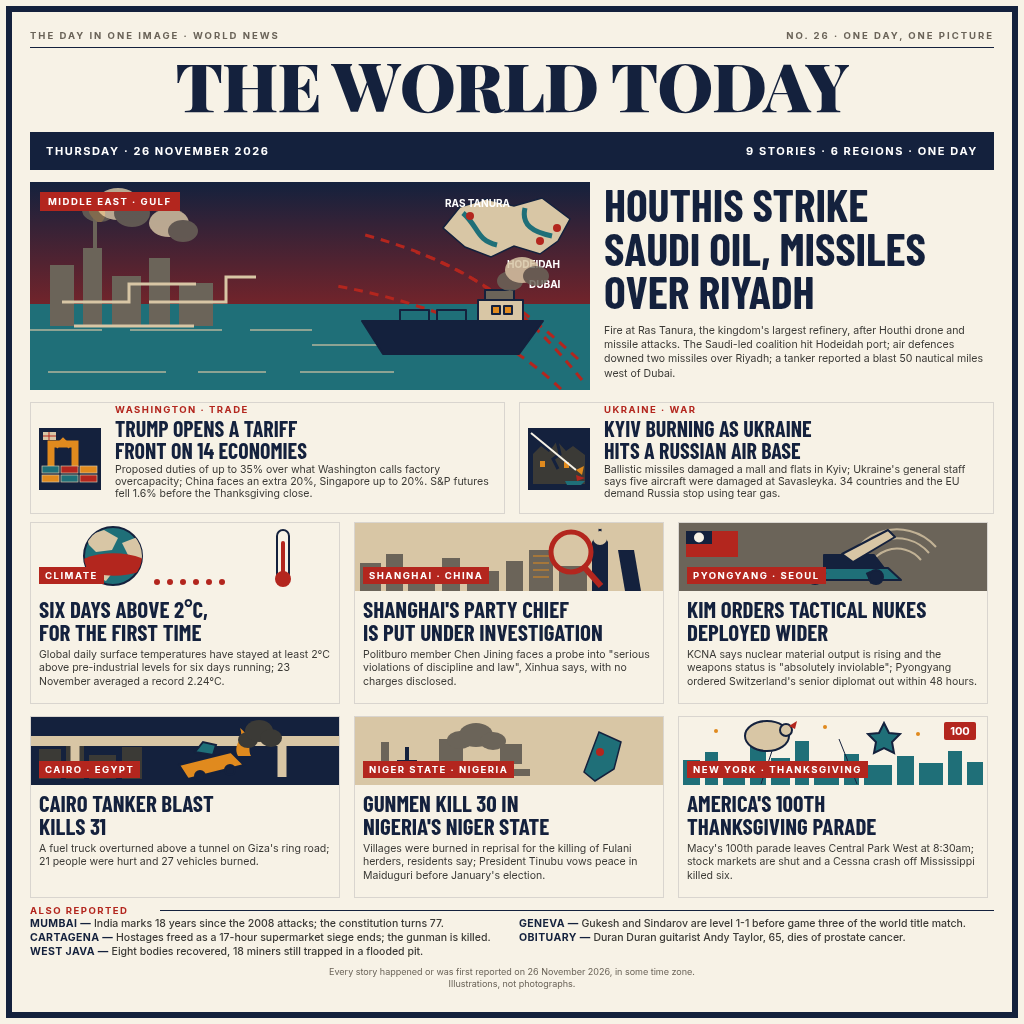
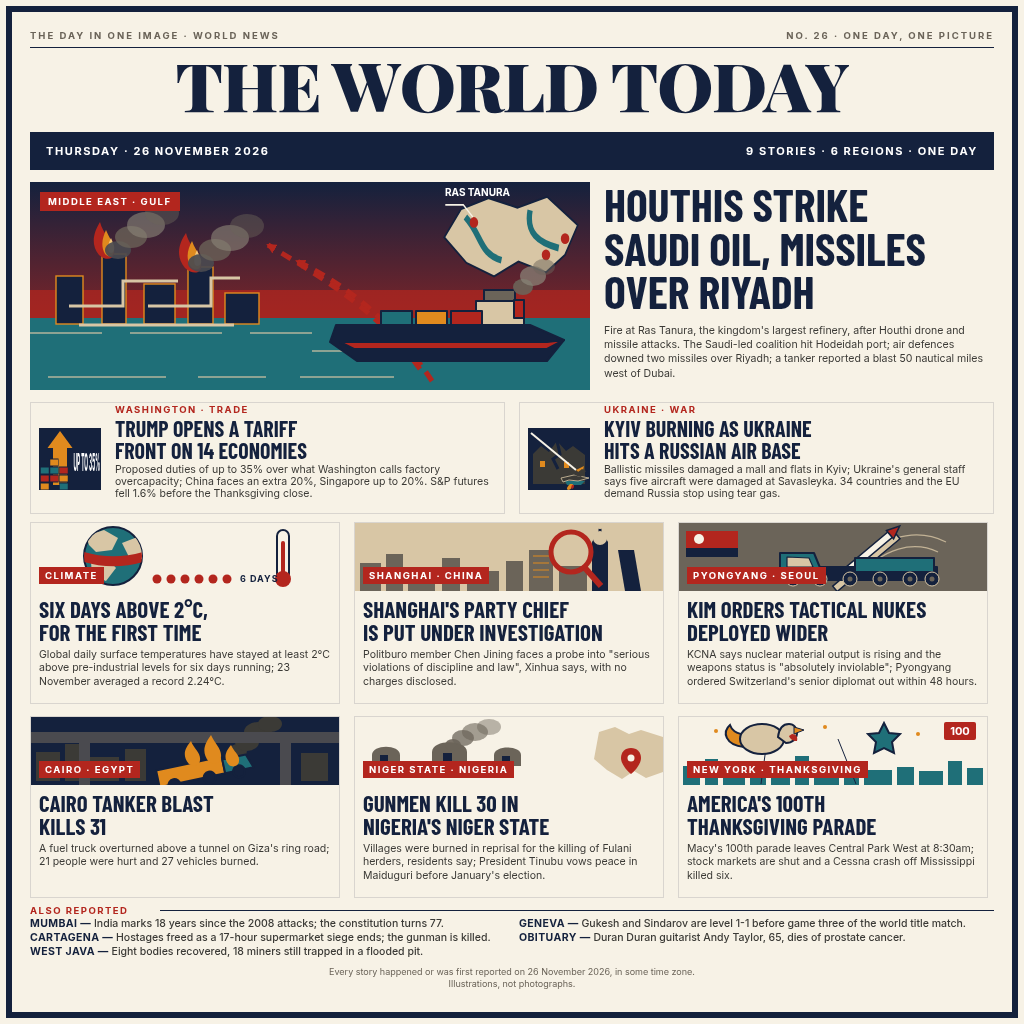
Rebuild editorial artwork for all nine news panels
- Make the Gulf refinery fire, connected smoke, tanker, compact map and missile arcs readable.
- Clarify tariffs, Korea, Egypt, Nigeria, climate, Thanksgiving and Ukraine illustrations.
- Preserve the approved layout, typography and all non-SVG copy.

diff --git a/src/entry.html b/src/entry.html
@@ -63,32 +63,47 @@ svg text{font-family:Inter,Arial,sans-serif}
       <svg viewBox="0 0 560 208" role="img" aria-label="Illustration of a refinery and tanker in the Gulf under missile attack">
         <defs>
           <linearGradient id="gulfSky" x1="0" y1="0" x2="0" y2="1"><stop offset="0" stop-color="#14213D"/><stop offset="1" stop-color="#B3261E"/></linearGradient>
+          <marker id="missileArrow" viewBox="0 0 10 10" refX="8" refY="5" markerWidth="10" markerHeight="10" orient="auto" markerUnits="userSpaceOnUse"><path d="M0 0 10 5 0 10Z" fill="#B3261E"/></marker>
         </defs>
         <rect width="560" height="208" fill="url(#gulfSky)"/>
-        <rect y="122" width="560" height="86" fill="#1F6F78"/>
-        <g stroke="#D8C6A5" stroke-width="1.5" opacity=".8"><path d="M0 148h72m28 0h92m28 0h62"/><path d="M282 163h84m32 0h74"/><path d="M18 190h118m32 0h68m34 0h94"/></g>
-        <g fill="#6B6459">
-          <rect x="20" y="83" width="24" height="61"/><rect x="53" y="66" width="19" height="78"/><rect x="82" y="94" width="29" height="50"/><rect x="119" y="76" width="21" height="68"/><rect x="149" y="101" width="34" height="43"/>
+        <rect y="108" width="560" height="32" fill="#B3261E" opacity=".72"/>
+        <rect y="136" width="560" height="72" fill="#1F6F78"/>
+        <g stroke="#D8C6A5" stroke-width="1.5" opacity=".8"><path d="M0 151h72m28 0h92m28 0h62"/><path d="M282 169h84m32 0h74"/><path d="M18 195h118m32 0h68m34 0h94"/></g>
+        <g fill="none" stroke="#B3261E" stroke-width="5" stroke-dasharray="11 8" marker-end="url(#missileArrow)"><path d="M402 199C365 143 321 105 267 79"/><path d="M390 187C350 132 302 101 238 63"/></g>
+        <g transform="translate(410 4)">
+          <g transform="scale(1.06 1.35)">
+            <path d="M4 38 20 17 46 9 73 16 101 8 130 29 118 51 100 64 74 56 51 67 25 57Z" fill="#D8C6A5" stroke="#14213D" stroke-width="1.5"/>
+            <path d="M24 23c16 14 13 27 34 32m27-37c-4 17 8 24 27 28" fill="none" stroke="#1F6F78" stroke-width="5"/>
+            <g fill="#B3261E"><circle cx="32" cy="27" r="4"/><circle cx="100" cy="51" r="4"/><circle cx="118" cy="39" r="4"/></g>
+            <path d="m31 23-9-9H5" fill="none" stroke="#F7F2E6" stroke-width="1.2"/>
+          </g>
+          <text x="5" y="10" fill="white" font-size="10" font-weight="700">RAS TANURA</text>
         </g>
-        <g fill="none" stroke="#D8C6A5" stroke-width="3"><path d="M32 120h67v-18h67m-47 18h77v-25h30"/><path d="M44 144h120"/></g>
-        <path d="M63 66V36h4v30" fill="#6B6459"/>
-        <path d="M65 38c-11-9-6-19 1-26 2 10 11 13 9 22-1 6-6 8-10 4Z" fill="#E08A1E"/>
-        <g opacity=".82"><ellipse cx="69" cy="28" rx="17" ry="12" fill="#6B6459"/><ellipse cx="88" cy="22" rx="22" ry="16" fill="#D8C6A5"/><ellipse cx="102" cy="31" rx="18" ry="14" fill="#6B6459"/><ellipse cx="139" cy="41" rx="20" ry="14" fill="#D8C6A5"/><ellipse cx="153" cy="49" rx="15" ry="11" fill="#6B6459"/></g>
-        <g fill="none" stroke="#B3261E" stroke-width="3" stroke-dasharray="9 7"><path d="M552 198C499 132 447 91 386 70"/><path d="M548 177C477 111 417 75 335 53"/><path d="M531 207C470 149 399 121 302 103"/></g>
-        <g transform="translate(408 8)">
-          <path d="M5 38 22 17 48 9 76 16 104 8 132 29 120 51 102 64 76 56 53 67 27 57Z" fill="#D8C6A5" stroke="#14213D" stroke-width="1.5"/>
-          <path d="M25 23c16 14 13 27 34 32m28-37c-4 17 8 24 27 28" fill="none" stroke="#1F6F78" stroke-width="5"/>
-          <g fill="#B3261E"><circle cx="32" cy="26" r="4"/><circle cx="102" cy="51" r="4"/><circle cx="119" cy="38" r="4"/></g>
-          <g fill="white" font-size="10" font-weight="700"><text x="7" y="17">RAS TANURA</text><text x="69" y="78">HODEIDAH</text><text x="91" y="98">DUBAI</text></g>
+        <g fill="#14213D" stroke="#E08A1E" stroke-width="1.4">
+          <rect x="26" y="94" width="27" height="48"/><rect x="72" y="72" width="24" height="70"/><rect x="114" y="102" width="31" height="40"/><rect x="158" y="85" width="25" height="57"/><rect x="195" y="111" width="34" height="31"/>
+        </g>
+        <g fill="none" stroke="#D8C6A5" stroke-width="3"><path d="M39 124h54V99h55m-30 25h63V96h29"/><path d="M49 143h155"/></g>
+        <g>
+          <path d="M69 73c-9-11-5-23 1-33 3 12 12 18 14 28 2 9-7 12-15 5Z" fill="#B3261E"/>
+          <path d="M75 72c-5-9-2-17 1-24 3 8 8 13 8 20 0 7-5 8-9 4Z" fill="#E08A1E"/>
+          <path d="M79 70c-2-5 0-10 2-14 2 5 4 8 3 12-1 3-3 4-5 2Z" fill="#F4C77B"/>
+          <path d="M155 86c-10-12-6-25 1-35 3 13 13 19 15 30 2 10-7 13-16 5Z" fill="#B3261E"/>
+          <path d="M161 85c-6-9-3-18 1-26 3 9 9 14 9 22 0 7-5 8-10 4Z" fill="#E08A1E"/>
+          <path d="M165 83c-2-5 0-11 2-15 2 6 5 9 4 13-1 3-4 4-6 2Z" fill="#F4C77B"/>
+        </g>
+        <g>
+          <ellipse cx="88" cy="68" rx="13" ry="9" fill="#4A4A4F" opacity=".92"/><ellipse cx="101" cy="55" rx="16" ry="11" fill="#6B6459" opacity=".78"/><ellipse cx="116" cy="43" rx="19" ry="13" fill="#8A8578" opacity=".62"/><ellipse cx="132" cy="31" rx="17" ry="12" fill="#6B6459" opacity=".46"/>
+          <ellipse cx="171" cy="81" rx="13" ry="9" fill="#4A4A4F" opacity=".92"/><ellipse cx="185" cy="68" rx="16" ry="11" fill="#6B6459" opacity=".78"/><ellipse cx="200" cy="56" rx="19" ry="13" fill="#8A8578" opacity=".62"/><ellipse cx="217" cy="44" rx="17" ry="12" fill="#6B6459" opacity=".46"/>
         </g>
         <g stroke="#14213D" stroke-width="2" stroke-linejoin="round">
-          <path d="M332 139h181l-24 33H353Z" fill="#14213D"/>
-          <path d="M448 118h45v21h-45Z" fill="#D8C6A5"/>
-          <path d="M455 108h29v10h-29Z" fill="#6B6459"/>
-          <path d="M370 128h29v11h-29Zm37 0h29v11h-29Z" fill="#1F6F78"/>
-          <path d="M462 124h8v8h-8Zm12 0h8v8h-8Z" fill="#E08A1E"/>
+          <path d="M306 143h194l34 15-17 21H327l-27-19Z" fill="#14213D"/>
+          <path d="M310 160h207l17-2-17 9H324Z" fill="#B3261E"/>
+          <path d="M446 119h48v24h-48Z" fill="#D8C6A5"/>
+          <path d="M454 108h31v11h-31Z" fill="#6B6459"/>
+          <rect x="351" y="129" width="31" height="14" fill="#1F6F78"/><rect x="386" y="129" width="31" height="14" fill="#E08A1E"/><rect x="421" y="129" width="31" height="14" fill="#B3261E"/>
+          <path d="M484 118h10v18h-10Z" fill="#B3261E"/>
         </g>
-        <g opacity=".85"><ellipse cx="480" cy="99" rx="13" ry="10" fill="#6B6459"/><ellipse cx="492" cy="88" rx="17" ry="13" fill="#D8C6A5"/><ellipse cx="506" cy="94" rx="13" ry="10" fill="#6B6459"/></g>
+        <g><ellipse cx="493" cy="105" rx="10" ry="8" fill="#6B6459" opacity=".9"/><ellipse cx="503" cy="94" rx="13" ry="10" fill="#8A8578" opacity=".72"/><ellipse cx="514" cy="85" rx="11" ry="8" fill="#6B6459" opacity=".5"/></g>
       </svg>
       <div class="chip">MIDDLE EAST · GULF</div>
     </div>
@@ -101,12 +116,15 @@ svg text{font-family:Inter,Arial,sans-serif}
   <section class="mini-row" aria-label="Trade and Ukraine">
     <article class="mini-card">
       <div class="mini-icon">
-        <svg viewBox="0 0 62 62" role="img" aria-label="Shipping containers beneath an upward tariff arrow">
-          <rect width="62" height="62" fill="#14213D"/>
-          <path d="M12 39V16h24v23" fill="none" stroke="#E08A1E" stroke-width="7"/>
-          <path d="m17 19 7-7 7 7" fill="none" stroke="#E08A1E" stroke-width="4"/>
-          <g stroke="#D8C6A5" stroke-width=".7"><rect x="3" y="38" width="17" height="7" fill="#1F6F78"/><rect x="22" y="38" width="17" height="7" fill="#B3261E"/><rect x="41" y="38" width="17" height="7" fill="#E08A1E"/><rect x="3" y="47" width="17" height="7" fill="#E08A1E"/><rect x="22" y="47" width="17" height="7" fill="#1F6F78"/><rect x="41" y="47" width="17" height="7" fill="#B3261E"/></g>
-          <rect x="4" y="4" width="13" height="8" fill="#D8C6A5"/><path d="M4 8h13M10 4v8" stroke="#B3261E" stroke-width="1"/>
+        <svg viewBox="0 0 124 62" preserveAspectRatio="none" role="img" aria-label="Three container stacks behind a rising tariff arrow and UP TO 35%">
+          <rect width="124" height="62" fill="#14213D"/>
+          <path d="M28 57V20H17L42 3 67 20H56V57Z" fill="#E08A1E"/>
+          <g stroke="#14213D" stroke-width="1">
+            <rect x="3" y="39" width="17" height="7" fill="#1F6F78"/><rect x="3" y="47" width="17" height="7" fill="#B3261E"/><rect x="3" y="55" width="17" height="7" fill="#E08A1E"/>
+            <rect x="22" y="31" width="17" height="7" fill="#E08A1E"/><rect x="22" y="39" width="17" height="7" fill="#1F6F78"/><rect x="22" y="47" width="17" height="7" fill="#B3261E"/>
+            <rect x="41" y="39" width="17" height="7" fill="#B3261E"/><rect x="41" y="47" width="17" height="7" fill="#E08A1E"/><rect x="41" y="55" width="17" height="7" fill="#1F6F78"/>
+          </g>
+          <text x="69" y="43" textLength="53" lengthAdjust="spacingAndGlyphs" fill="white" font-family="Barlow" font-size="26" font-weight="700">UP TO 35%</text>
         </svg>
       </div>
       <div class="mini-copy">
@@ -124,7 +142,7 @@ svg text{font-family:Inter,Arial,sans-serif}
           <rect x="12" y="33" width="5" height="6" fill="#E08A1E"/><rect x="36" y="34" width="5" height="6" fill="#E08A1E"/>
           <path d="M3 5 48 42" stroke="#F7F2E6" stroke-width="2"/>
           <path d="m48 42 8-4-2 9Z" fill="#E08A1E"/>
-          <path d="M37 53h20l-4 4H39Z" fill="#1F6F78"/><path d="m48 47 9 3-8 3Z" fill="#B3261E"/>
+          <path d="M37 53h20l-4 4H39Z" fill="#1F6F78"/><path d="m33 50 13-3 15 3-11 3-9-1-6 2Z" fill="#3B3A36" stroke="#D8C6A5" stroke-width=".8"/><path d="m46 47 8-6 4 2-5 6Z" fill="#3B3A36"/><path d="M42 56c-3 3-4 5-2 6 3 0 4-3 5-6Z" fill="#E08A1E"/><path d="M44 57c-1 2-1 3 0 4 2-1 2-2 2-4Z" fill="#B3261E"/>
         </svg>
       </div>
       <div class="mini-copy">
@@ -143,10 +161,11 @@ svg text{font-family:Inter,Arial,sans-serif}
           <defs><clipPath id="climateClip"><circle cx="82" cy="33" r="29"/></clipPath></defs>
           <circle cx="82" cy="33" r="29" fill="#1F6F78" stroke="#14213D" stroke-width="2"/>
           <g clip-path="url(#climateClip)" fill="#D8C6A5"><path d="M55 13 73 7 87 15 81 27 65 29 58 22Z"/><path d="m91 20 18-7 12 9-4 13-17 3Z"/><path d="M60 39 76 35 85 45 75 58 61 52Z"/></g>
-          <path d="M50 37c19-9 46-9 65 0v9c-19 9-46 9-65 0Z" fill="#B3261E" clip-path="url(#climateClip)"/>
+          <path d="M50 28c20 7 45 7 65 0v10c-20 7-45 7-65 0Z" fill="#B3261E" clip-path="url(#climateClip)"/>
           <rect x="246" y="7" width="12" height="50" rx="6" fill="#F7F2E6" stroke="#14213D" stroke-width="2"/>
           <rect x="250" y="18" width="4" height="34" rx="2" fill="#B3261E"/><circle cx="252" cy="56" r="8" fill="#B3261E"/>
-          <g fill="#B3261E"><circle cx="126" cy="59" r="3"/><circle cx="139" cy="59" r="3"/><circle cx="152" cy="59" r="3"/><circle cx="165" cy="59" r="3"/><circle cx="178" cy="59" r="3"/><circle cx="191" cy="59" r="3"/></g>
+          <g fill="#B3261E"><circle cx="126" cy="56" r="4.5"/><circle cx="140" cy="56" r="4.5"/><circle cx="154" cy="56" r="4.5"/><circle cx="168" cy="56" r="4.5"/><circle cx="182" cy="56" r="4.5"/><circle cx="196" cy="56" r="4.5"/></g>
+          <text x="209" y="59" fill="#14213D" font-family="Inter" font-size="9" font-weight="700" letter-spacing="1">6 DAYS</text>
         </svg>
         <div class="chip bottom">CLIMATE</div>
       </div>
@@ -171,11 +190,22 @@ svg text{font-family:Inter,Arial,sans-serif}
     </article>
     <article class="card">
       <div class="card-art">
-        <svg viewBox="0 0 308 68" role="img" aria-label="North Korean mobile missile launcher and concentric launch arcs">
+        <svg viewBox="0 0 308 68" role="img" aria-label="North Korean six-wheel mobile missile launcher with a missile raised forty degrees">
           <rect width="308" height="68" fill="#6B6459"/>
-          <g fill="none" stroke="#D8C6A5" stroke-width="2" opacity=".8"><path d="M166 57a52 52 0 0 1 91-33"/><path d="M176 57a42 42 0 0 1 74-27"/><path d="M187 57a31 31 0 0 1 55-20"/></g>
-          <rect x="7" y="8" width="52" height="26" fill="#B3261E"/><rect x="7" y="8" width="26" height="13" fill="#14213D"/><circle cx="20" cy="14.5" r="5" fill="#F7F2E6"/>
-          <g stroke="#14213D" stroke-width="2" stroke-linejoin="round"><path d="M116 45h93l13 12h-99Z" fill="#1F6F78"/><path d="M145 32h50l10 13h-60Z" fill="#14213D"/><path d="m163 31 46-24 7 7-42 25Z" fill="#D8C6A5"/><path d="m125 49-5 11m25-11-3 11m47-11 5 11" stroke="#14213D" stroke-width="5"/><circle cx="136" cy="54" r="7" fill="#14213D"/><circle cx="197" cy="54" r="7" fill="#14213D"/></g>
+          <g fill="none" stroke="#D8C6A5" stroke-width="1.3" opacity=".8"><path d="M163 57C195 12 237 4 267 19"/><path d="M177 57C204 23 236 18 259 29"/></g>
+          <rect x="7" y="8" width="52" height="26" fill="#B3261E"/><rect x="7" y="25" width="52" height="9" fill="#14213D"/><circle cx="20" cy="16" r="5" fill="#F7F2E6"/>
+          <g transform="rotate(-40 174 50)">
+            <path d="M150 47h82v7h-82Z" fill="#D8C6A5" stroke="#14213D" stroke-width="1.5"/>
+            <path d="M163 41h64v7h-64Z" fill="#F7F2E6" stroke="#14213D" stroke-width="1.5"/><path d="m227 39 13 5-13 6Z" fill="#B3261E" stroke="#14213D" stroke-width="1.5"/><path d="m165 41-8-6 2 13Z" fill="#B3261E"/>
+          </g>
+          <g stroke="#14213D" stroke-width="2" stroke-linejoin="round">
+            <path d="M132 44h126v13H132Z" fill="#14213D"/>
+            <path d="M176 35h79v14h-79Z" fill="#1F6F78"/>
+            <path d="M101 30h34l9 22h-43Z" fill="#1F6F78"/>
+            <path d="m108 34 22 1 4 9h-26Z" fill="#D8C6A5" stroke-width="1.2"/>
+          </g>
+          <g fill="#14213D" stroke="#D8C6A5" stroke-width="1"><circle cx="114" cy="56" r="7"/><circle cx="141" cy="56" r="7"/><circle cx="171" cy="56" r="7"/><circle cx="201" cy="56" r="7"/><circle cx="231" cy="56" r="7"/><circle cx="253" cy="56" r="7"/></g>
+          <g fill="#6B6459"><circle cx="114" cy="56" r="2.5"/><circle cx="141" cy="56" r="2.5"/><circle cx="171" cy="56" r="2.5"/><circle cx="201" cy="56" r="2.5"/><circle cx="231" cy="56" r="2.5"/><circle cx="253" cy="56" r="2.5"/></g>
         </svg>
         <div class="chip bottom">PYONGYANG · SEOUL</div>
       </div>
@@ -187,13 +217,16 @@ svg text{font-family:Inter,Arial,sans-serif}
   <section class="card-row row-two" aria-label="Egypt, Nigeria and Thanksgiving">
     <article class="card">
       <div class="card-art">
-        <svg viewBox="0 0 308 68" role="img" aria-label="Tipped fuel tanker burning beneath a concrete overpass">
+        <svg viewBox="0 0 308 68" role="img" aria-label="Tipped fuel tanker with three flames and smoke beneath a concrete overpass">
           <rect width="308" height="68" fill="#14213D"/>
-          <g fill="#3B3A36"><rect x="8" y="32" width="22" height="30"/><rect x="35" y="24" width="18" height="38"/><rect x="58" y="38" width="27" height="24"/><rect x="91" y="30" width="20" height="32"/></g>
-          <path d="M0 19h308v10H0Z" fill="#D8C6A5"/><path d="M44 29v31m207-31v31" stroke="#D8C6A5" stroke-width="9"/>
-          <g stroke="#14213D" stroke-width="2"><path d="m148 48 52-13 13 13-56 14Z" fill="#E08A1E"/><path d="m164 35 8-10 13 3-3 10Z" fill="#1F6F78"/><circle cx="169" cy="59" r="5" fill="#14213D"/><circle cx="199" cy="53" r="5" fill="#14213D"/></g>
-          <path d="M207 39c-6-13 7-16 2-28 14 11 7 20 11 28Z" fill="#E08A1E"/>
-          <g fill="#3B3A36"><ellipse cx="217" cy="23" rx="10" ry="8"/><ellipse cx="228" cy="14" rx="14" ry="11"/><ellipse cx="240" cy="21" rx="11" ry="9"/></g>
+          <g fill="#3B3A36"><rect x="5" y="35" width="24" height="29"/><rect x="34" y="27" width="19" height="37"/><rect x="59" y="40" width="29" height="24"/><rect x="94" y="32" width="21" height="32"/><rect x="270" y="36" width="27" height="28"/></g>
+          <g fill="#3B3A36"><ellipse cx="207" cy="34" rx="9" ry="7"/><ellipse cx="216" cy="25" rx="12" ry="9"/><ellipse cx="227" cy="15" rx="14" ry="10"/><ellipse cx="239" cy="7" rx="12" ry="8"/></g>
+          <rect y="15" width="308" height="11" fill="#4A4A4F"/><rect x="48" y="26" width="11" height="42" fill="#4A4A4F"/><rect x="249" y="26" width="11" height="42" fill="#4A4A4F"/>
+          <g transform="rotate(-12 171 53)" stroke="#14213D" stroke-width="2" stroke-linejoin="round">
+            <path d="M126 44h67v17h-67Z" fill="#E08A1E"/><path d="M193 47h24l5 14h-29Z" fill="#1F6F78"/>
+            <circle cx="141" cy="62" r="6" fill="#14213D"/><circle cx="177" cy="62" r="6" fill="#14213D"/><circle cx="207" cy="62" r="6" fill="#14213D"/>
+          </g>
+          <g fill="#E08A1E"><path d="M158 47c-8-9-3-17 2-23 3 8 10 12 9 19 0 5-6 7-11 4Z"/><path d="M178 45c-9-11-3-20 2-27 4 9 11 14 10 22 0 6-7 8-12 5Z"/><path d="M198 48c-7-8-2-15 2-20 3 7 9 10 8 16 0 5-6 7-10 4Z"/></g>
         </svg>
         <div class="chip bottom">CAIRO · EGYPT</div>
       </div>
@@ -202,12 +235,13 @@ svg text{font-family:Inter,Arial,sans-serif}
     </article>
     <article class="card">
       <div class="card-art">
-        <svg viewBox="0 0 308 68" role="img" aria-label="Burned Nigerian village with smoke and a map of Africa">
-          <rect width="308" height="68" fill="#D8C6A5"/>
-          <g fill="#6B6459"><path d="M26 46V25h8v21Zm-12 5h32v8H14Z"/><path d="M84 48V22h24v26Zm-9 5h42v7H75Z"/><path d="M145 47V27h22v20Zm-8 5h38v7h-38Z"/></g>
-          <g fill="#14213D"><path d="M240 47V31h4v16Zm-9 0h22v5h-22Z"/><path d="M50 43V30h4v13Zm-8 0h20v5H42Z"/></g>
-          <g fill="#6B6459"><ellipse cx="105" cy="23" rx="13" ry="9"/><ellipse cx="121" cy="18" rx="17" ry="12"/><ellipse cx="138" cy="24" rx="13" ry="9"/></g>
-          <path d="m229 55 15-40 22 10-7 27-19 12Z" fill="#1F6F78" stroke="#14213D" stroke-width="1.5"/><circle cx="245" cy="35" r="4" fill="#B3261E"/>
+        <svg viewBox="0 0 308 68" role="img" aria-label="Three Nigerian huts with smoke and a cropped sand Africa silhouette with one red pin">
+          <rect width="308" height="68" fill="#F7F2E6"/>
+          <path d="M244 15 260 10 274 17 286 13 308 20V55l-17 6-12-7-12 8-15-9-13-11Z" fill="#D8C6A5"/>
+          <path d="M276 31c-6 0-10 4-10 10 0 8 10 16 10 16s10-8 10-16c0-6-4-10-10-10Z" fill="#B3261E"/><circle cx="276" cy="41" r="3.5" fill="#F7F2E6"/>
+          <g fill="#6B6459"><path d="M17 49V38c0-11 28-11 28 0v11Z"/><path d="M77 51V35c0-13 35-13 35 0v16Z"/><path d="M139 49V38c0-10 27-10 27 0v11Z"/></g>
+          <g fill="#14213D"><path d="M25 49V38h8v11Z"/><path d="M88 51V36h9v15Z"/><path d="M147 49V39h8v10Z"/></g>
+          <g fill="#6B6459"><ellipse cx="98" cy="28" rx="8" ry="6" opacity=".9"/><ellipse cx="108" cy="21" rx="11" ry="8" opacity=".75"/><ellipse cx="120" cy="15" rx="13" ry="9" opacity=".6"/><ellipse cx="134" cy="10" rx="12" ry="8" opacity=".45"/></g>
         </svg>
         <div class="chip bottom">NIGER STATE · NIGERIA</div>
       </div>
@@ -216,11 +250,14 @@ svg text{font-family:Inter,Arial,sans-serif}
     </article>
     <article class="card">
       <div class="card-art">
-        <svg viewBox="0 0 308 68" role="img" aria-label="Manhattan skyline beneath a turkey balloon and star balloon">
+        <svg viewBox="0 0 308 68" role="img" aria-label="Lower Manhattan skyline beneath a turkey bird balloon and star balloon">
           <rect width="308" height="68" fill="#F7F2E6"/>
-          <g fill="#1F6F78"><rect x="4" y="43" width="17" height="25"/><rect x="26" y="35" width="13" height="33"/><rect x="44" y="48" width="22" height="20"/><rect x="71" y="29" width="16" height="39"/><rect x="92" y="41" width="19" height="27"/><rect x="116" y="24" width="14" height="44"/><rect x="135" y="46" width="25" height="22"/><rect x="165" y="37" width="15" height="31"/><rect x="185" y="48" width="28" height="20"/><rect x="218" y="39" width="17" height="29"/><rect x="240" y="46" width="24" height="22"/><rect x="269" y="34" width="14" height="34"/><rect x="288" y="45" width="16" height="23"/></g>
-          <g stroke="#14213D" stroke-width="1"><path d="M94 31 82 67m78-45 18 45"/></g>
-          <ellipse cx="88" cy="19" rx="22" ry="15" fill="#D8C6A5" stroke="#14213D" stroke-width="2"/><circle cx="107" cy="13" r="6" fill="#D8C6A5" stroke="#14213D" stroke-width="2"/><path d="m110 9 8-5-2 8" fill="#B3261E"/>
+          <g fill="#1F6F78"><rect x="4" y="49" width="17" height="19"/><rect x="26" y="42" width="13" height="26"/><rect x="44" y="52" width="22" height="16"/><rect x="71" y="46" width="16" height="22"/><rect x="92" y="53" width="19" height="15"/><rect x="116" y="39" width="14" height="29"/><rect x="135" y="52" width="25" height="16"/><rect x="165" y="48" width="15" height="20"/><rect x="185" y="53" width="28" height="15"/><rect x="218" y="50" width="17" height="18"/><rect x="240" y="54" width="24" height="14"/><rect x="269" y="44" width="14" height="24"/><rect x="288" y="51" width="16" height="17"/></g>
+          <g stroke="#14213D" stroke-width="1"><path d="M87 31 82 67m77-45 18 45"/></g>
+          <path d="M65 30C46 28 43 15 51 8c3 9 11 8 15 11-4 3-3 7-1 11Z" fill="#E08A1E" stroke="#14213D" stroke-width="2"/>
+          <ellipse cx="83" cy="22" rx="22" ry="15" fill="#D8C6A5" stroke="#14213D" stroke-width="2"/>
+          <path d="M99 20c1-8 5-13 11-13 5 0 8 4 8 9 0 6-5 10-11 10Z" fill="#D8C6A5" stroke="#14213D" stroke-width="2"/>
+          <path d="m115 10 10 3-10 4Z" fill="#E08A1E" stroke="#14213D" stroke-width="1"/><path d="M113 17c4 0 6 3 5 7-4 0-7-2-8-5Z" fill="#B3261E"/>
           <path d="m205 6 5 10 11 1-8 8 2 11-10-5-10 5 2-11-8-8 11-1Z" fill="#1F6F78" stroke="#14213D" stroke-width="2"/>
           <g fill="#E08A1E"><circle cx="37" cy="14" r="2"/><circle cx="146" cy="10" r="2"/><circle cx="239" cy="17" r="2"/></g>
           <rect x="265" y="5" width="32" height="18" rx="2" fill="#B3261E"/><text x="281" y="18" text-anchor="middle" fill="white" font-size="11" font-weight="700">100</text>
